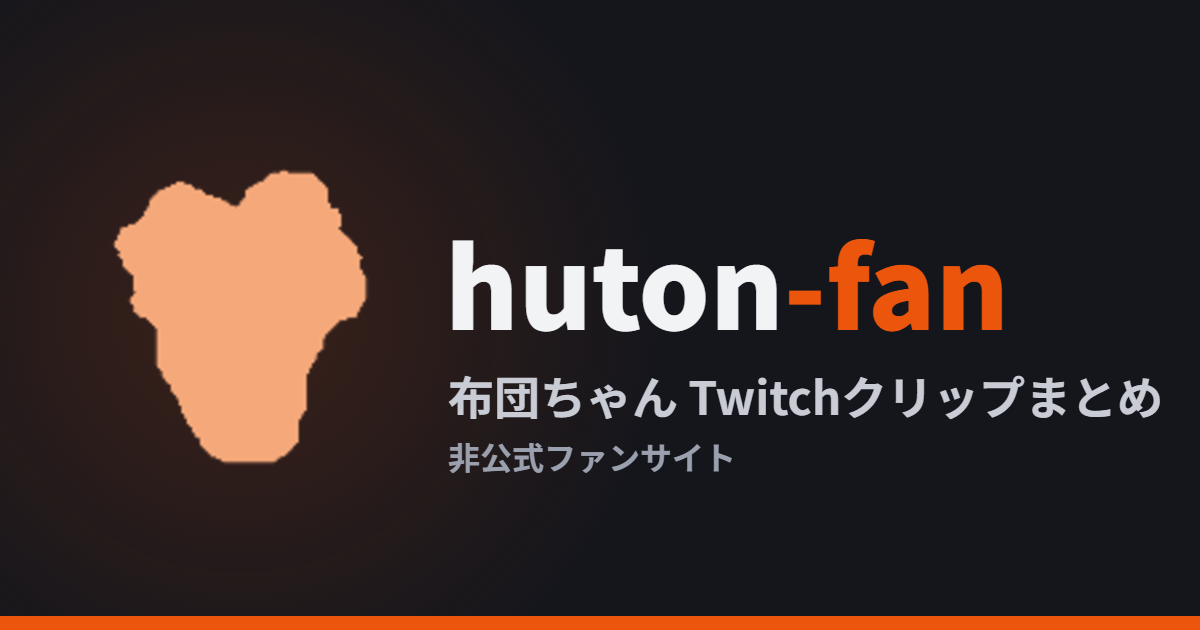
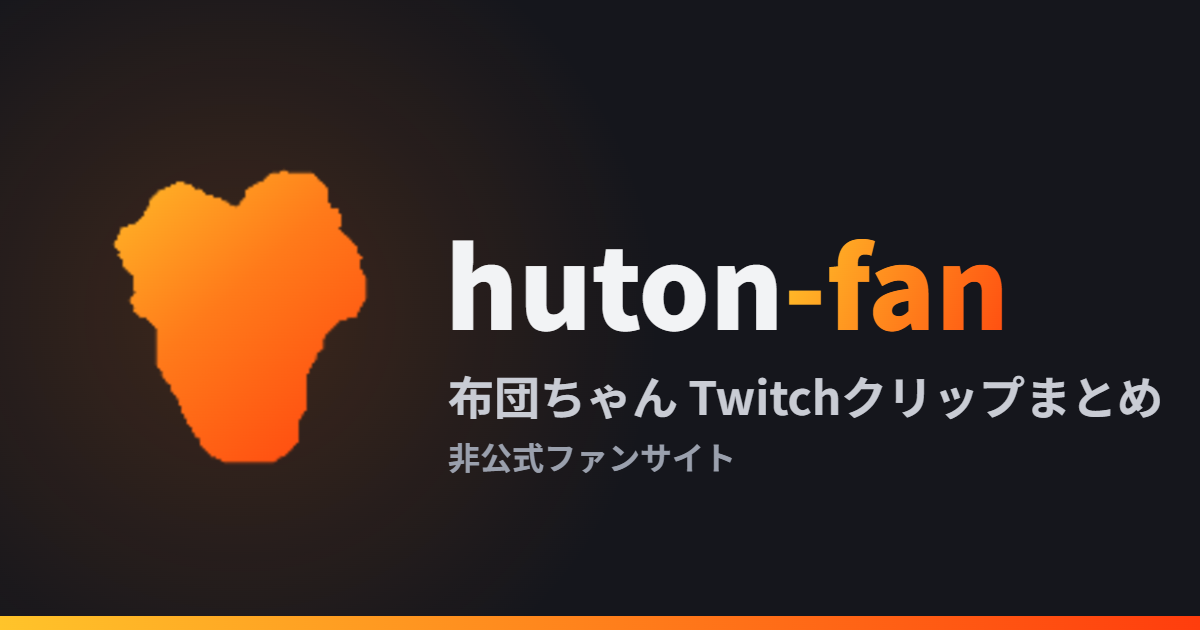
Add files via upload

Changed region(s): [[0.0925, 0.2714, 0.3083, 0.754], [0.0, 0.9651, 0.6475, 1.0], [0.6475, 0.3619, 0.8017, 0.5429]]

diff --git a/index.html b/index.html
@@ -42,7 +42,7 @@ input::placeholder { color: #8a8f99; }
   <header style="position:sticky;top:0;z-index:100;display:flex;flex-wrap:wrap;align-items:center;gap:8px 14px;padding:9px 16px;background:var(--bg,#0e0e10);border-bottom:1px solid var(--border,#303036)">
     <button onClick="{{ onNavHome }}" title="ホームへ" style="display:flex;align-items:center;gap:9px;background:none;border:none;cursor:pointer;padding:4px 2px">
       <img src="assets/hutonclips-icon.png" alt="布団ちゃんシルエット" style="width:38px;height:38px;display:block;flex:0 0 auto">
-      <span style="font-size:21px;font-weight:900;letter-spacing:-0.5px;color:var(--text,#efeff1)">huton<span style="color:var(--accent,#9146FF)">-fan</span></span>
+      <span style="font-size:21px;font-weight:900;letter-spacing:-0.5px;color:var(--text,#efeff1)">huton<span style="background:linear-gradient(90deg,#FFC42A,#FF7A1A,#FF3D0D);-webkit-background-clip:text;background-clip:text;color:transparent">-fan</span></span>
     </button>
     <nav style="display:flex;gap:6px">
       <button onClick="{{ onNavHome }}" style="{{ navHomeStyle }}">ホーム</button>
@@ -430,7 +430,7 @@ input::placeholder { color: #8a8f99; }
       <div style="flex:1 1 300px;min-width:260px;display:flex;flex-direction:column;gap:9px">
         <span style="display:flex;align-items:center;gap:8px">
           <img src="assets/hutonclips-icon.png" alt="" style="width:26px;height:26px;display:block">
-          <span style="font-size:16px;font-weight:900;letter-spacing:-0.3px;color:var(--text,#f2f3f5)">huton<span style="color:var(--accent,#EB550C)">-fan</span></span>
+          <span style="font-size:16px;font-weight:900;letter-spacing:-0.3px;color:var(--text,#f2f3f5)">huton<span style="background:linear-gradient(90deg,#FFC42A,#FF7A1A,#FF3D0D);-webkit-background-clip:text;background-clip:text;color:transparent">-fan</span></span>
         </span>
         <span style="font-size:12px;line-height:1.9;color:var(--text2,#9aa0ad)">布団ちゃんのTwitchクリップを集めた非公式ファンサイトです。クリップはTwitch公式の埋め込みプレーヤーで再生され、視聴数は本家に加算されます。</span>
         <button onClick="{{ onAbout }}" style="align-self:flex-start;background:none;border:none;padding:0;font-size:12px;color:var(--text2,#9aa0ad);text-decoration:underline;cursor:pointer">このサイトについて</button>